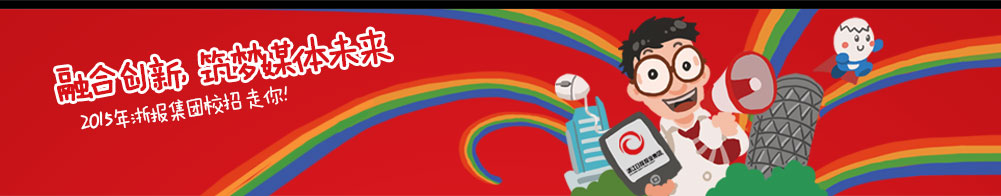
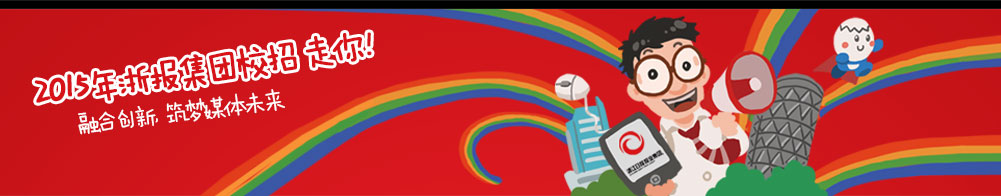
version1

Changed region(s): [[0.031, 0.1224, 0.4026, 0.7041]]

diff --git a/pc/process.html b/pc/process.html
@@ -16,33 +16,32 @@
         <a href="./index.html" class="recruit-logo">
             <img src="./images/logo.png" alt="">
         </a>
-        <div class="recruit-logo-others">
-            <img src="./images/logo-others.jpg" alt="">
-        </div>
+        
         
     </div>
     <div class="banner">
         <div class="nav">
-            <a class="nav-item" href="./apply.html">
-                <i class="nav-icon"><img src="./images/nav-icon1.png" alt=""></i>
-                <span>职位申请</span>
+            <a class="nav-item" href="./intro.html">
+                <i class="nav-icon"><img src="./images/nav-icon5.png" alt=""></i>
+                <span>公司介绍</span>
             </a>
-            <a class="nav-item nav-item-active" href="./process.html">
-                <i class="nav-icon"><img src="./images/nav-icon2.png" alt=""></i>
+            <a class="nav-item  nav-item-active" href="./process.html">
+                <i class="nav-icon nav-item-active"><img src="./images/nav-icon2.png" alt=""></i>
                 <span>流程介绍</span>
             </a>
             <a class="nav-item" href="./speak.html">
                 <i class="nav-icon"><img src="./images/nav-icon3.png" alt=""></i>
                 <span>宣讲会安排</span>
             </a>
+            <a class="nav-item" href="./apply.html">
+                <i class="nav-icon"><img src="./images/nav-icon1.png" alt=""></i>
+                <span>职位申请</span>
+            </a>
             <a class="nav-item" href="./qa.html">
                 <i class="nav-icon"><img src="./images/nav-icon4.png" alt=""></i>
                 <span>校招Q&A</span>
             </a>
-            <a class="nav-item" href="./intro.html">
-                <i class="nav-icon"><img src="./images/nav-icon5.png" alt=""></i>
-                <span>公司介绍</span>
-            </a>
+            
         </div>
     </div>
     <div class="w1001">

diff --git a/pc/intro.html b/pc/intro.html
@@ -16,16 +16,14 @@
         <a href="./index.html" class="recruit-logo">
             <img src="./images/logo.png" alt="">
         </a>
-        <div class="recruit-logo-others">
-            <img src="./images/logo-others.jpg" alt="">
-        </div>
+        
         
     </div>
     <div class="banner">
         <div class="nav">
-            <a class="nav-item" href="./apply.html">
-                <i class="nav-icon"><img src="./images/nav-icon1.png" alt=""></i>
-                <span>职位申请</span>
+            <a class="nav-item nav-item-active" href="./intro.html">
+                <i class="nav-icon"><img src="./images/nav-icon5.png" alt=""></i>
+                <span>公司介绍</span>
             </a>
             <a class="nav-item" href="./process.html">
                 <i class="nav-icon"><img src="./images/nav-icon2.png" alt=""></i>
@@ -35,14 +33,15 @@
                 <i class="nav-icon"><img src="./images/nav-icon3.png" alt=""></i>
                 <span>宣讲会安排</span>
             </a>
-            <a class="nav-item" href="./qa.html">
+            <a class="nav-item " href="./apply.html">
+                <i class="nav-icon"><img src="./images/nav-icon1.png" alt=""></i>
+                <span>职位申请</span>
+            </a>
+            <a class="nav-item " href="./qa.html">
                 <i class="nav-icon"><img src="./images/nav-icon4.png" alt=""></i>
                 <span>校招Q&A</span>
             </a>
-            <a class="nav-item nav-item-active" href="./intro.html">
-                <i class="nav-icon"><img src="./images/nav-icon5.png" alt=""></i>
-                <span>公司介绍</span>
-            </a>
+            
         </div>
     </div>
     <div class="intro-wrapper w1001">

diff --git a/pc/apply.html b/pc/apply.html
@@ -16,16 +16,14 @@
         <a href="./index.html" class="recruit-logo">
             <img src="./images/logo.png" alt="">
         </a>
-        <div class="recruit-logo-others">
-            <img src="./images/logo-others.jpg" alt="">
-        </div>
+        
         
     </div>
     <div class="banner">
         <div class="nav">
-            <a class="nav-item nav-item-active" href="./apply.html">
-                <i class="nav-icon"><img src="./images/nav-icon1.png" alt=""></i>
-                <span>职位申请</span>
+            <a class="nav-item" href="./intro.html">
+                <i class="nav-icon"><img src="./images/nav-icon5.png" alt=""></i>
+                <span>公司介绍</span>
             </a>
             <a class="nav-item" href="./process.html">
                 <i class="nav-icon"><img src="./images/nav-icon2.png" alt=""></i>
@@ -35,14 +33,15 @@
                 <i class="nav-icon"><img src="./images/nav-icon3.png" alt=""></i>
                 <span>宣讲会安排</span>
             </a>
+            <a class="nav-item nav-item-active" href="./apply.html">
+                <i class="nav-icon"><img src="./images/nav-icon1.png" alt=""></i>
+                <span>职位申请</span>
+            </a>
             <a class="nav-item" href="./qa.html">
                 <i class="nav-icon"><img src="./images/nav-icon4.png" alt=""></i>
                 <span>校招Q&A</span>
             </a>
-            <a class="nav-item" href="./intro.html">
-                <i class="nav-icon"><img src="./images/nav-icon5.png" alt=""></i>
-                <span>公司介绍</span>
-            </a>
+            
         </div>
     </div>
     <div class="apply-wrapper w1001">

diff --git a/pc/applyDetail.html b/pc/applyDetail.html
@@ -16,16 +16,14 @@
         <a href="./index.html" class="recruit-logo">
             <img src="./images/logo.png" alt="">
         </a>
-        <div class="recruit-logo-others">
-            <img src="./images/logo-others.jpg" alt="">
-        </div>
+        
         
     </div>
     <div class="banner">
         <div class="nav">
-            <a class="nav-item nav-item-active" href="./apply.html">
-                <i class="nav-icon"><img src="./images/nav-icon1.png" alt=""></i>
-                <span>职位申请</span>
+            <a class="nav-item" href="./intro.html">
+                <i class="nav-icon"><img src="./images/nav-icon5.png" alt=""></i>
+                <span>公司介绍</span>
             </a>
             <a class="nav-item" href="./process.html">
                 <i class="nav-icon"><img src="./images/nav-icon2.png" alt=""></i>
@@ -35,14 +33,15 @@
                 <i class="nav-icon"><img src="./images/nav-icon3.png" alt=""></i>
                 <span>宣讲会安排</span>
             </a>
+            <a class="nav-item nav-item-active" href="./apply.html">
+                <i class="nav-icon"><img src="./images/nav-icon1.png" alt=""></i>
+                <span>职位申请</span>
+            </a>
             <a class="nav-item" href="./qa.html">
                 <i class="nav-icon"><img src="./images/nav-icon4.png" alt=""></i>
                 <span>校招Q&A</span>
             </a>
-            <a class="nav-item" href="./intro.html">
-                <i class="nav-icon"><img src="./images/nav-icon5.png" alt=""></i>
-                <span>公司介绍</span>
-            </a>
+            
         </div>
     </div>
     <div class="apply-wrapper w1001">

diff --git a/pc/qa.html b/pc/qa.html
@@ -16,16 +16,14 @@
         <a href="./index.html" class="recruit-logo">
             <img src="./images/logo.png" alt="">
         </a>
-        <div class="recruit-logo-others">
-            <img src="./images/logo-others.jpg" alt="">
-        </div>
+        
         
     </div>
     <div class="banner">
         <div class="nav">
-            <a class="nav-item" href="./apply.html">
-                <i class="nav-icon"><img src="./images/nav-icon1.png" alt=""></i>
-                <span>职位申请</span>
+            <a class="nav-item" href="./intro.html">
+                <i class="nav-icon"><img src="./images/nav-icon5.png" alt=""></i>
+                <span>公司介绍</span>
             </a>
             <a class="nav-item" href="./process.html">
                 <i class="nav-icon"><img src="./images/nav-icon2.png" alt=""></i>
@@ -35,14 +33,15 @@
                 <i class="nav-icon"><img src="./images/nav-icon3.png" alt=""></i>
                 <span>宣讲会安排</span>
             </a>
+            <a class="nav-item" href="./apply.html">
+                <i class="nav-icon"><img src="./images/nav-icon1.png" alt=""></i>
+                <span>职位申请</span>
+            </a>
             <a class="nav-item nav-item-active" href="./qa.html">
                 <i class="nav-icon"><img src="./images/nav-icon4.png" alt=""></i>
                 <span>校招Q&A</span>
             </a>
-            <a class="nav-item" href="./intro.html">
-                <i class="nav-icon"><img src="./images/nav-icon5.png" alt=""></i>
-                <span>公司介绍</span>
-            </a>
+            
         </div>
     </div>
     <div class="intro-wrapper w1001">

diff --git a/pc/speak.html b/pc/speak.html
@@ -16,16 +16,14 @@
         <a href="./index.html" class="recruit-logo">
             <img src="./images/logo.png" alt="">
         </a>
-        <div class="recruit-logo-others">
-            <img src="./images/logo-others.jpg" alt="">
-        </div>
+        
         
     </div>
     <div class="banner">
         <div class="nav">
-            <a class="nav-item" href="./apply.html">
-                <i class="nav-icon"><img src="./images/nav-icon1.png" alt=""></i>
-                <span>职位申请</span>
+            <a class="nav-item" href="./intro.html">
+                <i class="nav-icon"><img src="./images/nav-icon5.png" alt=""></i>
+                <span>公司介绍</span>
             </a>
             <a class="nav-item" href="./process.html">
                 <i class="nav-icon"><img src="./images/nav-icon2.png" alt=""></i>
@@ -35,14 +33,15 @@
                 <i class="nav-icon"><img src="./images/nav-icon3.png" alt=""></i>
                 <span>宣讲会安排</span>
             </a>
+            <a class="nav-item" href="./apply.html">
+                <i class="nav-icon"><img src="./images/nav-icon1.png" alt=""></i>
+                <span>职位申请</span>
+            </a>
             <a class="nav-item" href="./qa.html">
                 <i class="nav-icon"><img src="./images/nav-icon4.png" alt=""></i>
                 <span>校招Q&A</span>
             </a>
-            <a class="nav-item" href="./intro.html">
-                <i class="nav-icon"><img src="./images/nav-icon5.png" alt=""></i>
-                <span>公司介绍</span>
-            </a>
+            
         </div>
     </div>
     <div class="speak-wrapper w1001">

diff --git a/pc/css/recruit.css b/pc/css/recruit.css
@@ -41,7 +41,7 @@ img {border: 0;}
 .recruit-logo {
     position: absolute;
     left: 0;
-    top: 5px;
+    top: 10px;
 }
 .recruit-logo-others {
     position: absolute;
@@ -57,6 +57,7 @@ img {border: 0;}
 }
 .recruit-bg img {
     width: 100%;
+    height: 100%;
 }
 .recruit-link {
     opacity: 0;
@@ -120,8 +121,8 @@ img {border: 0;}
 }
 .slogan2{
     position: absolute;
-    right: 246px;
-    top:270px; 
+    right: 210px;
+    top:238px; 
     opacity: 0;
     filter:alpha(opacity=0);
 }
@@ -171,7 +172,10 @@ img {border: 0;}
     display: inline-block;
     vertical-align: middle;
 }
-.nav-item:hover span, a.nav-item-active span{
+.nav-item:hover span{
+    font-weight: bold;
+}
+ a.nav-item-active span{
     color: red;
     /*top: -20px;
     color: red;*/

diff --git a/pc/index.html b/pc/index.html
@@ -16,9 +16,7 @@
         <a href="./index.html" class="recruit-logo">
             <img src="./images/logo.png" alt="">
         </a>
-        <div class="recruit-logo-others">
-            <img src="./images/logo-others.jpg" alt="">
-        </div>
+        
         
     </div>
     <div class="recruit-link-container w1001">
@@ -48,6 +46,7 @@
         </a>
         
     </div>
+
     <script>
     $(function(){
         var delay = function(callback,timeout){
